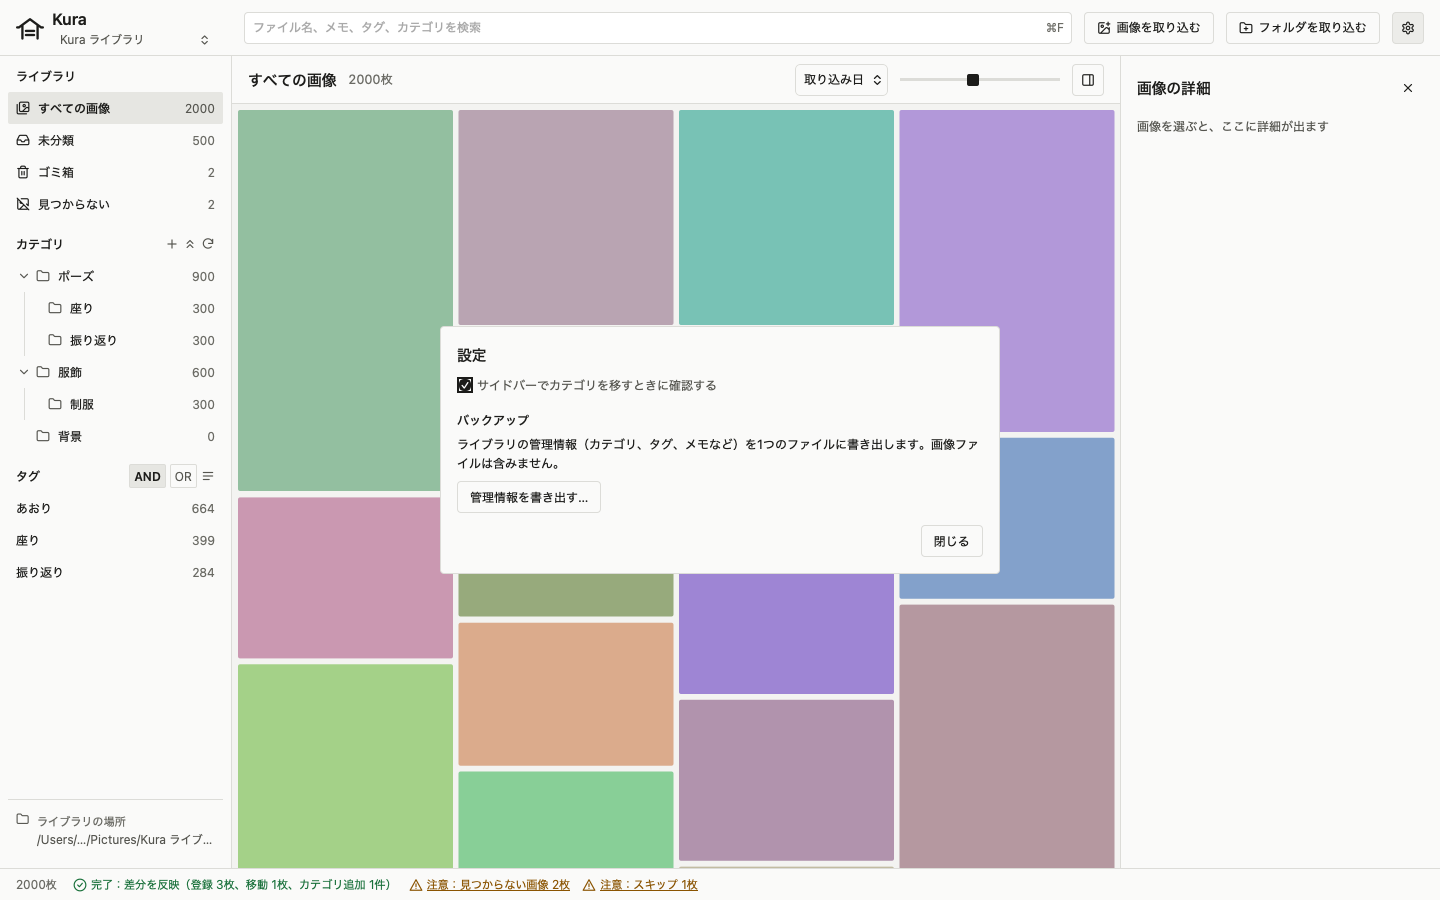
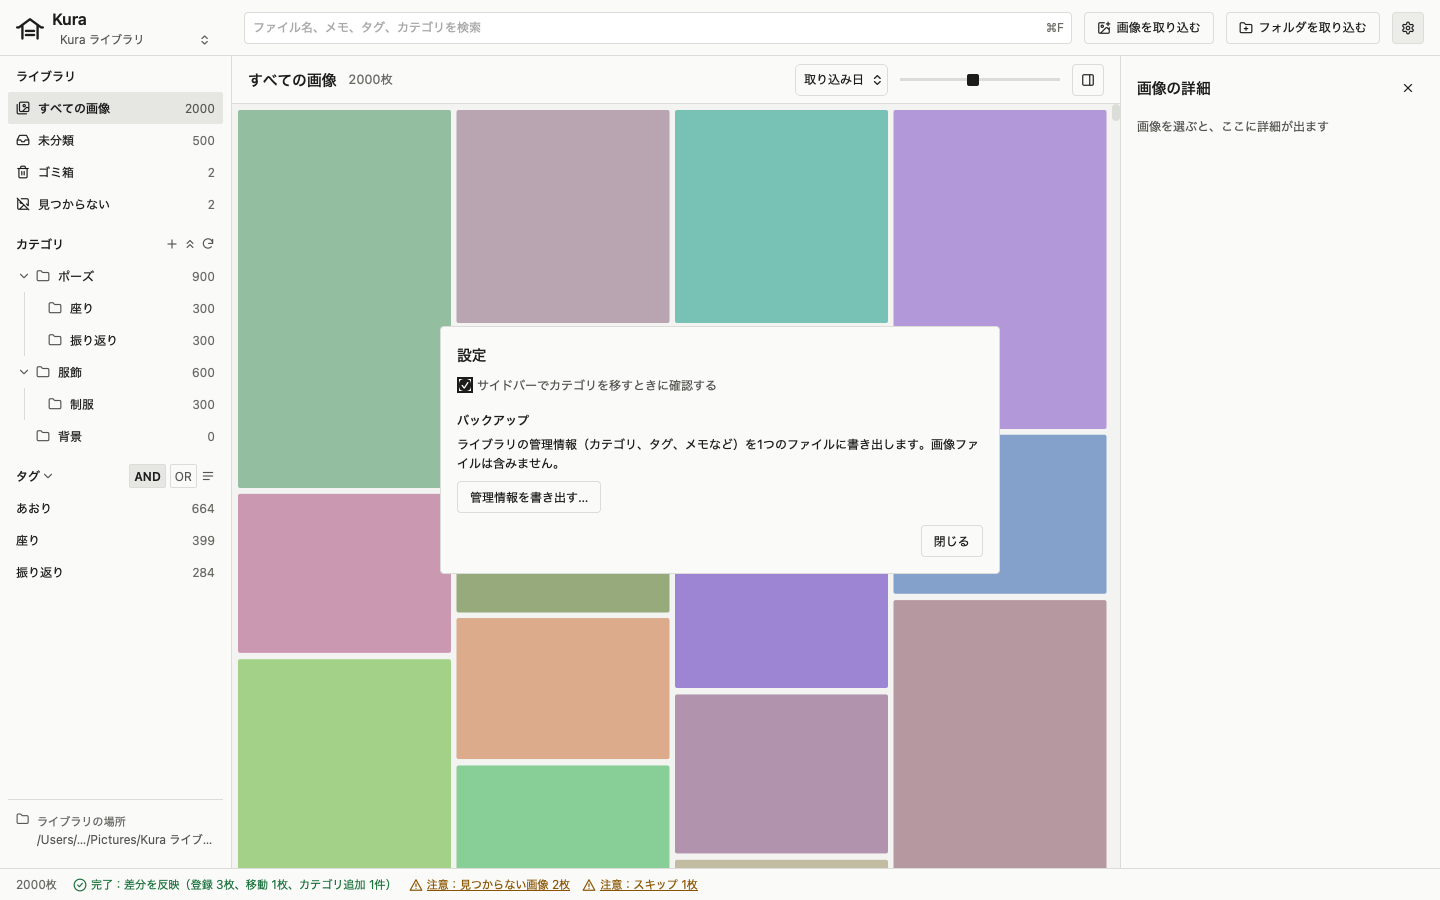
feat: サイドバーのタグ一覧を閉じられるようにする
タグが多いとサイドバーのスクロールが長くなるため。閉じても選んでいるタグの行は
出し、何で絞り込んでいるかが見えなくならないようにする。閉じた状態はアプリ全体の
設定に残す（サムネイルの大きさと同じ）。

関連: FR-503

diff --git a/src/Sidebar.tsx b/src/Sidebar.tsx
@@ -43,6 +43,9 @@ type Props = {
   // ライブラリの場所。押すと Finder で開く
   root: string
   onReveal: () => void
+  // タグ一覧を閉じているか（アプリ全体の設定）。閉じていても、選んでいるタグは出す
+  tagsCollapsed: boolean
+  onTagsCollapse: (collapsed: boolean) => void
 }
 
 // 長いパスは途中を … で省き、先頭のフォルダと最後の2つを残す（全体は title で出す）
@@ -407,7 +410,17 @@ export default function Sidebar(props: Props) {
         {tree(null, 0)}
       </ul>
       <h2 className="sidebar__heading" id="sidebar-tags">
-        タグ
+        <button
+          type="button"
+          className="sidebar__section"
+          aria-expanded={!props.tagsCollapsed}
+          onClick={() => props.onTagsCollapse(!props.tagsCollapsed)}
+        >
+          タグ
+          <span className="sidebar__toggle">
+            <Icon d={props.tagsCollapsed ? 'M9 6l6 6-6 6' : 'M6 9l6 6 6-6'} />
+          </span>
+        </button>
         {/* 選んだタグをすべて含む（AND）か、どれかを含む（OR）か */}
         <span className="sidebar__actions" role="group" aria-label="タグの組み合わせ">
           {(['and', 'or'] as const).map((mode) => (
@@ -428,19 +441,22 @@ export default function Sidebar(props: Props) {
         </span>
       </h2>
       <ul className="sidebar__list" aria-labelledby="sidebar-tags" onKeyDown={onTagKey}>
-        {gallery.tags.map((t) => (
-          <li key={t.id}>
-            <button
-              type="button"
-              className={`sidebar__item sidebar__button${filter.tags.includes(t.id) ? ' sidebar__item--selected' : ''}`}
-              aria-pressed={filter.tags.includes(t.id)}
-              onClick={(e) => pickTag(e, t.id)}
-            >
-              <span className="sidebar__name">{t.name}</span>
-              <span className="sidebar__count">{counts.tags.get(t.id) ?? 0}</span>
-            </button>
-          </li>
-        ))}
+        {/* 閉じていても選んでいるタグは出す。何で絞り込んでいるかが見えなくならないように */}
+        {gallery.tags
+          .filter((t) => !props.tagsCollapsed || filter.tags.includes(t.id))
+          .map((t) => (
+            <li key={t.id}>
+              <button
+                type="button"
+                className={`sidebar__item sidebar__button${filter.tags.includes(t.id) ? ' sidebar__item--selected' : ''}`}
+                aria-pressed={filter.tags.includes(t.id)}
+                onClick={(e) => pickTag(e, t.id)}
+              >
+                <span className="sidebar__name">{t.name}</span>
+                <span className="sidebar__count">{counts.tags.get(t.id) ?? 0}</span>
+              </button>
+            </li>
+          ))}
       </ul>
       <button type="button" className="sidebar__location" title={props.root} onClick={props.onReveal}>
         <Icon d={ICONS.folder} />

diff --git a/e2e/gallery.spec.ts b/e2e/gallery.spec.ts
@@ -1406,3 +1406,24 @@ test('UIのリニューアルで足した、ライブラリのメニュー、一
   await expect(screen.getByRole('alert')).toHaveCount(0)
   expect(errors).toEqual([])
 })
+
+test('サイドバーのタグ一覧を閉じても選んでいるタグは残し、閉じた状態は開き直しても残る', async ({ page }) => {
+  await openGallery(page)
+  const sidebar = page.getByRole('navigation', { name: 'サイドバー' })
+  const tags = sidebar.getByRole('list', { name: 'タグ' }).getByRole('button')
+  const toggle = sidebar.getByRole('button', { name: 'タグ', exact: true })
+
+  await tags.filter({ hasText: '座り' }).click()
+  await toggle.click()
+  await expect(toggle).toHaveAttribute('aria-expanded', 'false')
+  await expect(tags).toHaveText([/座り/])
+  await page.screenshot({ path: 'test-results/tags-collapsed.png' })
+
+  // 閉じた状態はアプリ全体の設定に残る
+  await page.reload()
+  await page.getByRole('button', { name: /Kura ライブラリ/ }).click()
+  await expect(toggle).toHaveAttribute('aria-expanded', 'false')
+  await expect(tags).toHaveCount(0)
+  await toggle.click()
+  await expect(tags).toHaveCount(3)
+})

diff --git a/src/mocks/ipc.ts b/src/mocks/ipc.ts
@@ -365,7 +365,7 @@ const forgetImages: Handler = (args) => {
 // 本物は設定を settings.json に、カテゴリの開閉を DB に残す。開き直し（page.goto）でも残るよう sessionStorage に置く
 const stored = <T>(key: string, init: T): T => JSON.parse(sessionStorage.getItem(key) ?? 'null') ?? init
 const store = (key: string, value: unknown) => sessionStorage.setItem(key, JSON.stringify(value))
-const DEFAULT_SETTINGS: Settings = { confirm_category_move: true, thumb_width: 200 }
+const DEFAULT_SETTINGS: Settings = { confirm_category_move: true, thumb_width: 200, tags_collapsed: false }
 
 const loadGallery: Handler = () => {
   if (created) return { images: [], categories: [], tags: [] }

diff --git a/src/Gallery.css b/src/Gallery.css
@@ -220,6 +220,19 @@ body.is-dragging * {
   white-space: nowrap;
 }
 
+/* 見出しの開閉ボタン（タグ）。見出しの文字のまま押せるようにする */
+.sidebar__section {
+  display: inline-flex;
+  align-items: center;
+  /* 開閉の印は文字の右に置き、文字の位置をほかの見出しとそろえる */
+  padding: 0;
+  border: none;
+  font: inherit;
+  color: inherit;
+  background: none;
+  cursor: pointer;
+}
+
 /* 開閉ボタン。子のないカテゴリにも同じ幅の空きを置いて、名前の位置をそろえる */
 .sidebar__toggle {
   display: inline-flex;

diff --git a/src/galleryTypes.ts b/src/galleryTypes.ts
@@ -47,4 +47,4 @@ export type Done = { done: number[]; failed: { id: number; message: string }[] }
 export type Restored = Assigned & { uncategorized: number[] }
 
 // src-tauri/src/settings.rs の Settings（アプリ全体の設定。load_settings と save_settings）
-export type Settings = { confirm_category_move: boolean; thumb_width: number }
+export type Settings = { confirm_category_move: boolean; thumb_width: number; tags_collapsed: boolean }

diff --git a/src/Gallery.tsx b/src/Gallery.tsx
@@ -583,6 +583,8 @@ export default function Gallery({ root, recent, settings, onSettings, onSwitch }
         onScan={scan}
         root={root}
         onReveal={() => reveal()}
+        tagsCollapsed={settings.tags_collapsed}
+        onTagsCollapse={(tags_collapsed) => changeSettings({ tags_collapsed })}
       />
 
       <div className="gallery__toolbar">

diff --git a/src-tauri/src/settings.rs b/src-tauri/src/settings.rs
@@ -12,6 +12,8 @@ pub struct Settings {
     pub confirm_category_move: bool,
     /// 一覧の列の幅の目安（FR-501）。範囲に収めるのは画面側
     pub thumb_width: u32,
+    /// サイドバーのタグ一覧を閉じている（FR-503）。タグが多いとサイドバーのスクロールが長くなるため
+    pub tags_collapsed: bool,
 }
 
 impl Default for Settings {
@@ -19,6 +21,7 @@ impl Default for Settings {
         Settings {
             confirm_category_move: true,
             thumb_width: 200,
+            tags_collapsed: false,
         }
     }
 }
@@ -68,6 +71,7 @@ mod tests {
         let s = Settings {
             confirm_category_move: false,
             thumb_width: 140,
+            tags_collapsed: true,
         };
 
         save(&file, &s).unwrap();
@@ -85,6 +89,8 @@ mod tests {
 
         assert_eq!(s.thumb_width, 300);
         assert!(s.confirm_category_move);
+        // タグ一覧の開閉は後の版で足したので、前の版のファイルには項目がない。開いた状態で始める
+        assert!(!s.tags_collapsed);
     }
 
     #[test]
@@ -105,6 +111,7 @@ mod tests {
         let before = Settings {
             confirm_category_move: false,
             thumb_width: 120,
+            tags_collapsed: false,
         };
         save(&file, &before).unwrap();
         if !lock(dir.path()) {

diff --git a/docs/requirements.md b/docs/requirements.md
@@ -383,6 +383,7 @@ UIのリニューアル（フェーズ2の前、2026-11-07 に利用者と決め
 - 選んだ画像には、黒い枠に加えて左上にチェックの印を重ねる。印は表示するだけで、押しても選択は変わらない（2026-11-07 に利用者と決めた。黒い枠だけでは選択中かが見分けにくかったため）
 - サイドバーの下にライブラリの場所を出す。押すとそのフォルダを Finder で開く
 - ステータスバーに、選んでいる枚数を出す
+- サイドバーの「タグ」の見出しを押すと、タグ一覧を閉じる・開く（リニューアルの後、2026-11-07 に利用者と決めた。タグが多いとサイドバーのスクロールが長くなるため）。閉じている間も、選んでいるタグの行は出す。何で絞り込んでいるかが見えなくならないようにするため。閉じた状態はアプリ全体の設定に残し、どのライブラリでも同じにする
 - 案にあった「すべて／画像」のタブ、正方形の表示への切り替え（FR-502）、ステータスバーの寸法表示と2つ目のスライダーは作らない
 
 拡大表示の細部（FR-508）は次のとおりです（フェーズ1のタスク8で決めた）。
@@ -570,7 +571,7 @@ DBには相対パスを保存しません。画像のパスは、カテゴリの
 - 日時は UNIX 時間のミリ秒で保存する
 - 「最近使ったライブラリ」の一覧はライブラリの中に置かず、アプリのデータフォルダ（`~/Library/Application Support/` の下）に置く。外付けドライブが外れていても一覧を出せるようにするため
 - 設定は2か所に分けて置く（フェーズ1のタスク18で、2026-11-05 に利用者と決めた）
-  - アプリ全体の設定は、アプリのデータフォルダの `settings.json` に置く。どのライブラリを開いても同じ値を使う。今あるのは、カテゴリの移動の確認（5.4）とサムネイルの大きさ（5.5）。人に見られたくない画像を隠すモード（FR-513）のオン・オフもここに置き、ライブラリをまたいで効かせる。書くのは Rust で、別名に書いてから置き換える。ファイルがないか壊れていれば初期値を使う
+  - アプリ全体の設定は、アプリのデータフォルダの `settings.json` に置く。どのライブラリを開いても同じ値を使う。今あるのは、カテゴリの移動の確認（5.4）、サムネイルの大きさ（5.5）、サイドバーのタグ一覧を閉じているか（5.5。2026-11-07 に足した）。人に見られたくない画像を隠すモード（FR-513）のオン・オフもここに置き、ライブラリをまたいで効かせる。書くのは Rust で、別名に書いてから置き換える。ファイルがないか壊れていれば初期値を使う
   - ライブラリの中身に結び付く状態は、ライブラリの DB に置く。今あるのは、サイドバーで閉じたカテゴリ（`categories` の `collapsed`）。ライブラリを移しても、DB のバックアップ（NFR-07）から戻しても残る
   - 画面側の `localStorage` には置かない。以前 `localStorage` に置いていた値は引き継がない（フェーズ1の完了の確認より前で、本物の資料ではまだ使っていないため）
 - 未分類の画像は `category_id` を空にし、実ファイルは `_未分類/` に置く

diff --git a/docs/user-guide.md b/docs/user-guide.md
@@ -289,6 +289,7 @@ Kura を起動すると、最後に使ったライブラリを開きます。一
 - タグを押した後は、Escape でタグの選択を外し、⌘A でタグをすべて選ぶ。サイドバーの何もない所を押しても、タグの選択が外れる
 - タグの見出しの AND を選ぶと、選んだタグをすべて含む画像が出る。OR を選ぶと、どれかを含む画像が出る（初めは AND）
 - カテゴリとタグは組み合わせて絞り込める
+- タグの見出しの「タグ」を押すと、タグ一覧を閉じる・開く。閉じている間も、選んでいるタグは出る。閉じた状態は、次に起動したときも残る
 
 サイドバーの件数は、絞り込みに関係なく、ゴミ箱以外のすべての画像で数えます。カテゴリの件数には子カテゴリの画像も入ります。
 
